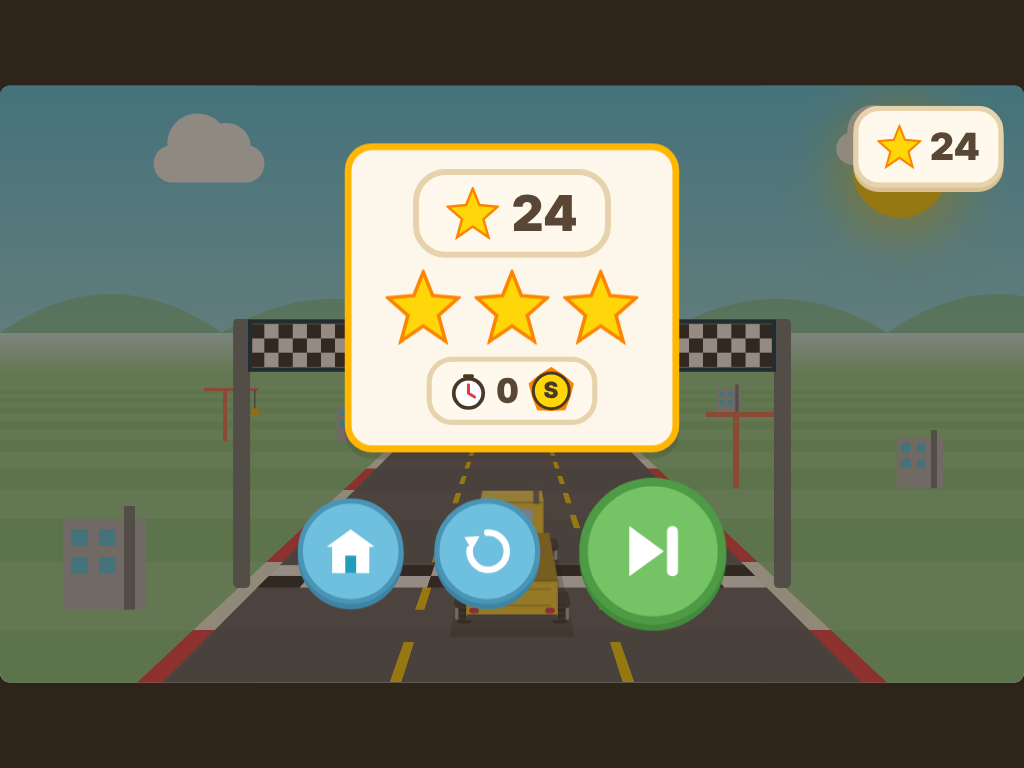
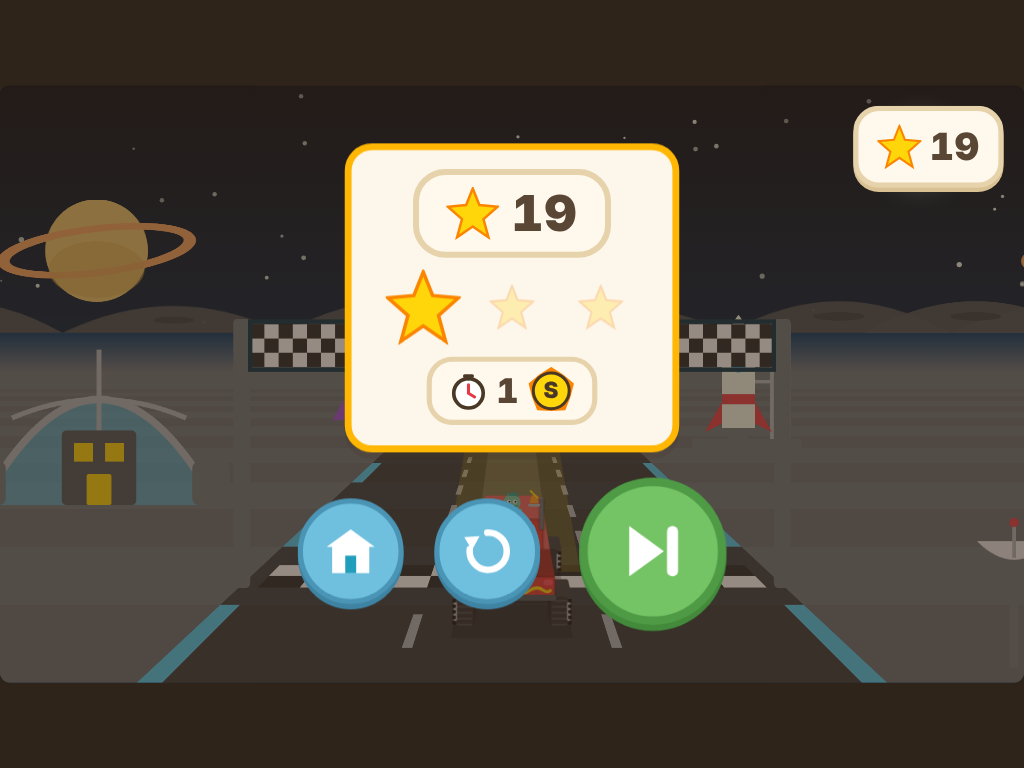
docs: v11 — bends, hills, beats, worlds-as-places, audio and events
Claude-Session: https://claude.ai/code/session_016ck1aPGLVyXfjAcF2qTzon

diff --git a/README.md b/README.md
@@ -23,22 +23,36 @@ Upgrade the engine, shield, and star magnet at the workbench. Fix crash damage w
 wrench. Wash off real mud with your finger in the wash bay. A magic dice button builds
 you a surprise.
 
-**The road.** A chase cam behind your build: the road runs straight out to the horizon,
-three lanes (left, center, right), a gas pedal, a brake pedal. You see the back of your exact
-car, wings, buddy, party hat and all. Swipe sideways or turn the steering wheel to steer into stars
-and away from barrels, rocks, TNT, tumbleweeds, and crabs. Ramps jump, puddles
-splash, capsules pop open with prizes, and the finish flag brings confetti, a star tally,
-a 1 to 3 star rating, and an S/A/B/C time medal.
+**The road.** A chase cam behind your build: the road sweeps, S-bends, chicanes and
+hairpins toward the horizon and rolls over hills, three lanes (left, center, right), a gas
+pedal, a brake pedal. You see the back of your exact car, wings, buddy, party hat and all.
+Swipe sideways or turn the steering wheel to steer into stars and away from barrels, rocks,
+TNT, tumbleweeds, and crabs. Every level is a sequence of "beats" from a library of thirty
+formations (star snakes and rainbows, slaloms, gates, closing walls, bowling barrels, a TNT
+minefield with stars marking the safe lane, capsule alleys, puddle parties, ramp stairways
+and star showers), picked so each of the eighty roads has its own signature and the last
+level of every world is a finale. Ramps jump, puddles splash, capsules pop open with prizes,
+and the finish gantry brings confetti, a star tally, a 1 to 3 star rating, and an S/A/B/C
+time medal.
 
 ![Space world: driving the moon road under a starfield with headlights on](docs/space.png)
 
 **Eight worlds, eighty levels.** Construction, sunset, night, rain, snow, desert, beach,
-and space, each with its own scenery, weather, and hazards. Space has low gravity.
+and space, each a place: its own roadside (cranes and silos, barns and windmills, a
+lighthouse and campfires, lit city blocks, ski lodges and igloos, mesas and pueblos,
+lifeguard towers and surf shacks, habitat domes and moon buggies), a structure you drive
+under (scaffold bridge, covered bridge, string lights, sign gantry, ice arch, canyon arch,
+bunting arch, airlock ring), a horizon landmark, its own weather, hazards, hills, start
+jingle, ambience, and star-chime scale. Things happen along the way: birds cross, an owl
+hoots, lightning flashes and a rainbow follows, a snowball rolls by, a UFO beams down a
+bonus star, a whale spouts, a crane swings a girder overhead. Space has low gravity.
 The map is a winding road of level nodes; beating a world's last level unlocks the next
 and pays a trophy bonus. A free drive mode tours all eight worlds forever with no finish
 line and no timer. And beating all eighty unlocks the Victory Parade: a rainbow-road
 finale with fireworks, every buddy you've found cheering from the roadside, and a
 champion's jackpot at the trophy arch.
+
+![Rain world: a rainbow over the city after the lightning, driving under a sign gantry](docs/rain.png)
 
 ![The world map: a winding path of level nodes across a meadow](docs/map.png)
 
@@ -83,7 +97,7 @@ saves a polaroid of that exact build. All of it lives in a scrapbook.
 - The QR code is produced by a hand-rolled encoder (byte mode, ECC level L, versions
   1 to 10 with multi-block Reed-Solomon interleaving over GF(256)) verified byte-exact
   against a real decoder.
-- `tests/` holds eleven Playwright suites with 166 checks covering the economy, physics,
+- `tests/` holds twelve Playwright suites with 182 checks covering the economy, physics,
   worlds, album, profiles, save codes, and the wash. See `tests/README.md` to run them.
 - Built with Claude Code in an agentic build loop: design and content generated by
   parallel subagents, every round audited by an adversarial reviewer with fix authority

diff --git a/TASKS.md b/TASKS.md
@@ -48,8 +48,15 @@
 - [x] T10.2-10.6: real gas/brake pedals; steering wheel (tap a side or turn it); chase-cam cars rebuilt as projected 3D toy blocks with front + rear axles, then halved in car space; swept rocket fins + raised dragon bat wings.
 - [x] T10.7: New-version gate. The page fingerprints its own code at boot and re-fetches itself (no-store) on boot, on return to foreground, and every 10 min; when the hosted code differs, a green refresh badge appears in the garage. Press-and-hold (1.6s ring) saves and reloads via a cache-busting URL. Suite update-check.cjs 5/5; all 11 suites 166/166.
 
+## v11 (2026-10-06, user-directed: "review every level, make turns, make them very different")
+
+- [x] T11.0: Curve engine (OutRun-style curvature stretches eased in/out, per-frame lateral offset table, skyline parallax by heading, lean into bends). T11.1: hills (cosine elevation through the projector, per-world amplitude).
+- [x] T11.2 (agent): beat sequencer — 30 formations, per-level signature + contrast templates, world beats, finales, guarantee passes; `tests/level-report.cjs`.
+- [x] T11.3 (agent): every world is a place — roadside pools (5-8 pieces each), overhead arches, horizon landmarks, festive parade set, free-drive re-skin.
+- [x] T11.4 (agent): per-world audio (jingles, ambience beds, star scales, bend scrub) + 10 live sky events; suite `world-check-audio-events.cjs` (16).
+- [ ] T11.5 (agent, in progress): adversarial audit of all 80 levels — visual sweep, course variety, fairness bots, pacing; `tests/fairness-check.cjs`.
+
 ## Backlog (v2 candidates, from kid-testing)
 
 - [ ] T2.1: Real-device iOS pass: audio unlock, multi-touch, add-to-home-screen icon.
-- [ ] T2.2: Road variation between runs (shuffle prop layout) so replays stay fresh.
 - [ ] T2.3: Speed-linked mixer drum spin and idle engine putter in garage.

diff --git a/SPEC.md b/SPEC.md
@@ -48,8 +48,18 @@ MOVE — the first moving obstacles. First clear of a world's last level banks a
 
 ## Scene 3: Road
 
-Chase-cam (v10): the road runs straight out into the screen toward a vanishing point, 3 lanes
-left/center/right. The exact vehicle built in the garage drives it, seen from behind (a parallel
+Chase-cam (v10): the road runs out into the screen toward a vanishing point, 3 lanes
+left/center/right. v11: the road **bends and rolls**. Each level has a seeded course of
+curvature stretches (sweepers, S/Z bends, chicanes, hairpins; bolder by world) and cosine
+hills (flat construction/rain/beach, rolling farmland and dunes, big snowy crests, lumpy moon);
+the camera rides the road's centerline so bends swing the whole world and crests lift the far
+road into the sky. Levels are built by a **beat sequencer**: a library of 30 formations
+(star trails/snakes/rainbows/arcs, slaloms, gates, closing walls, bowling, minefield, cone
+forest, capsule alley, puddle party, oil slalom, breather, four ramp beats, two beats per
+world 5-8) sequenced per level from a signature beat + contrasts, with guarantee passes for
+the economy and difficulty curve; finales on levels 10/20/.../80. Each world has roadside
+pools, an overhead structure, a horizon landmark, a start jingle, an ambience bed, its own
+star-chime scale, and seeded live sky events. The exact vehicle built in the garage drives it, seen from behind (a parallel
 rear-view art set per body, with tires, extras, buddy, decal, mud and damage). Props are
 perspective-scaled sprites; the ground plane (bands, rumble strips, dashes, ramps, finish
 stripe) is painted on a canvas each frame; roadside set pieces rush past on both shoulders.
